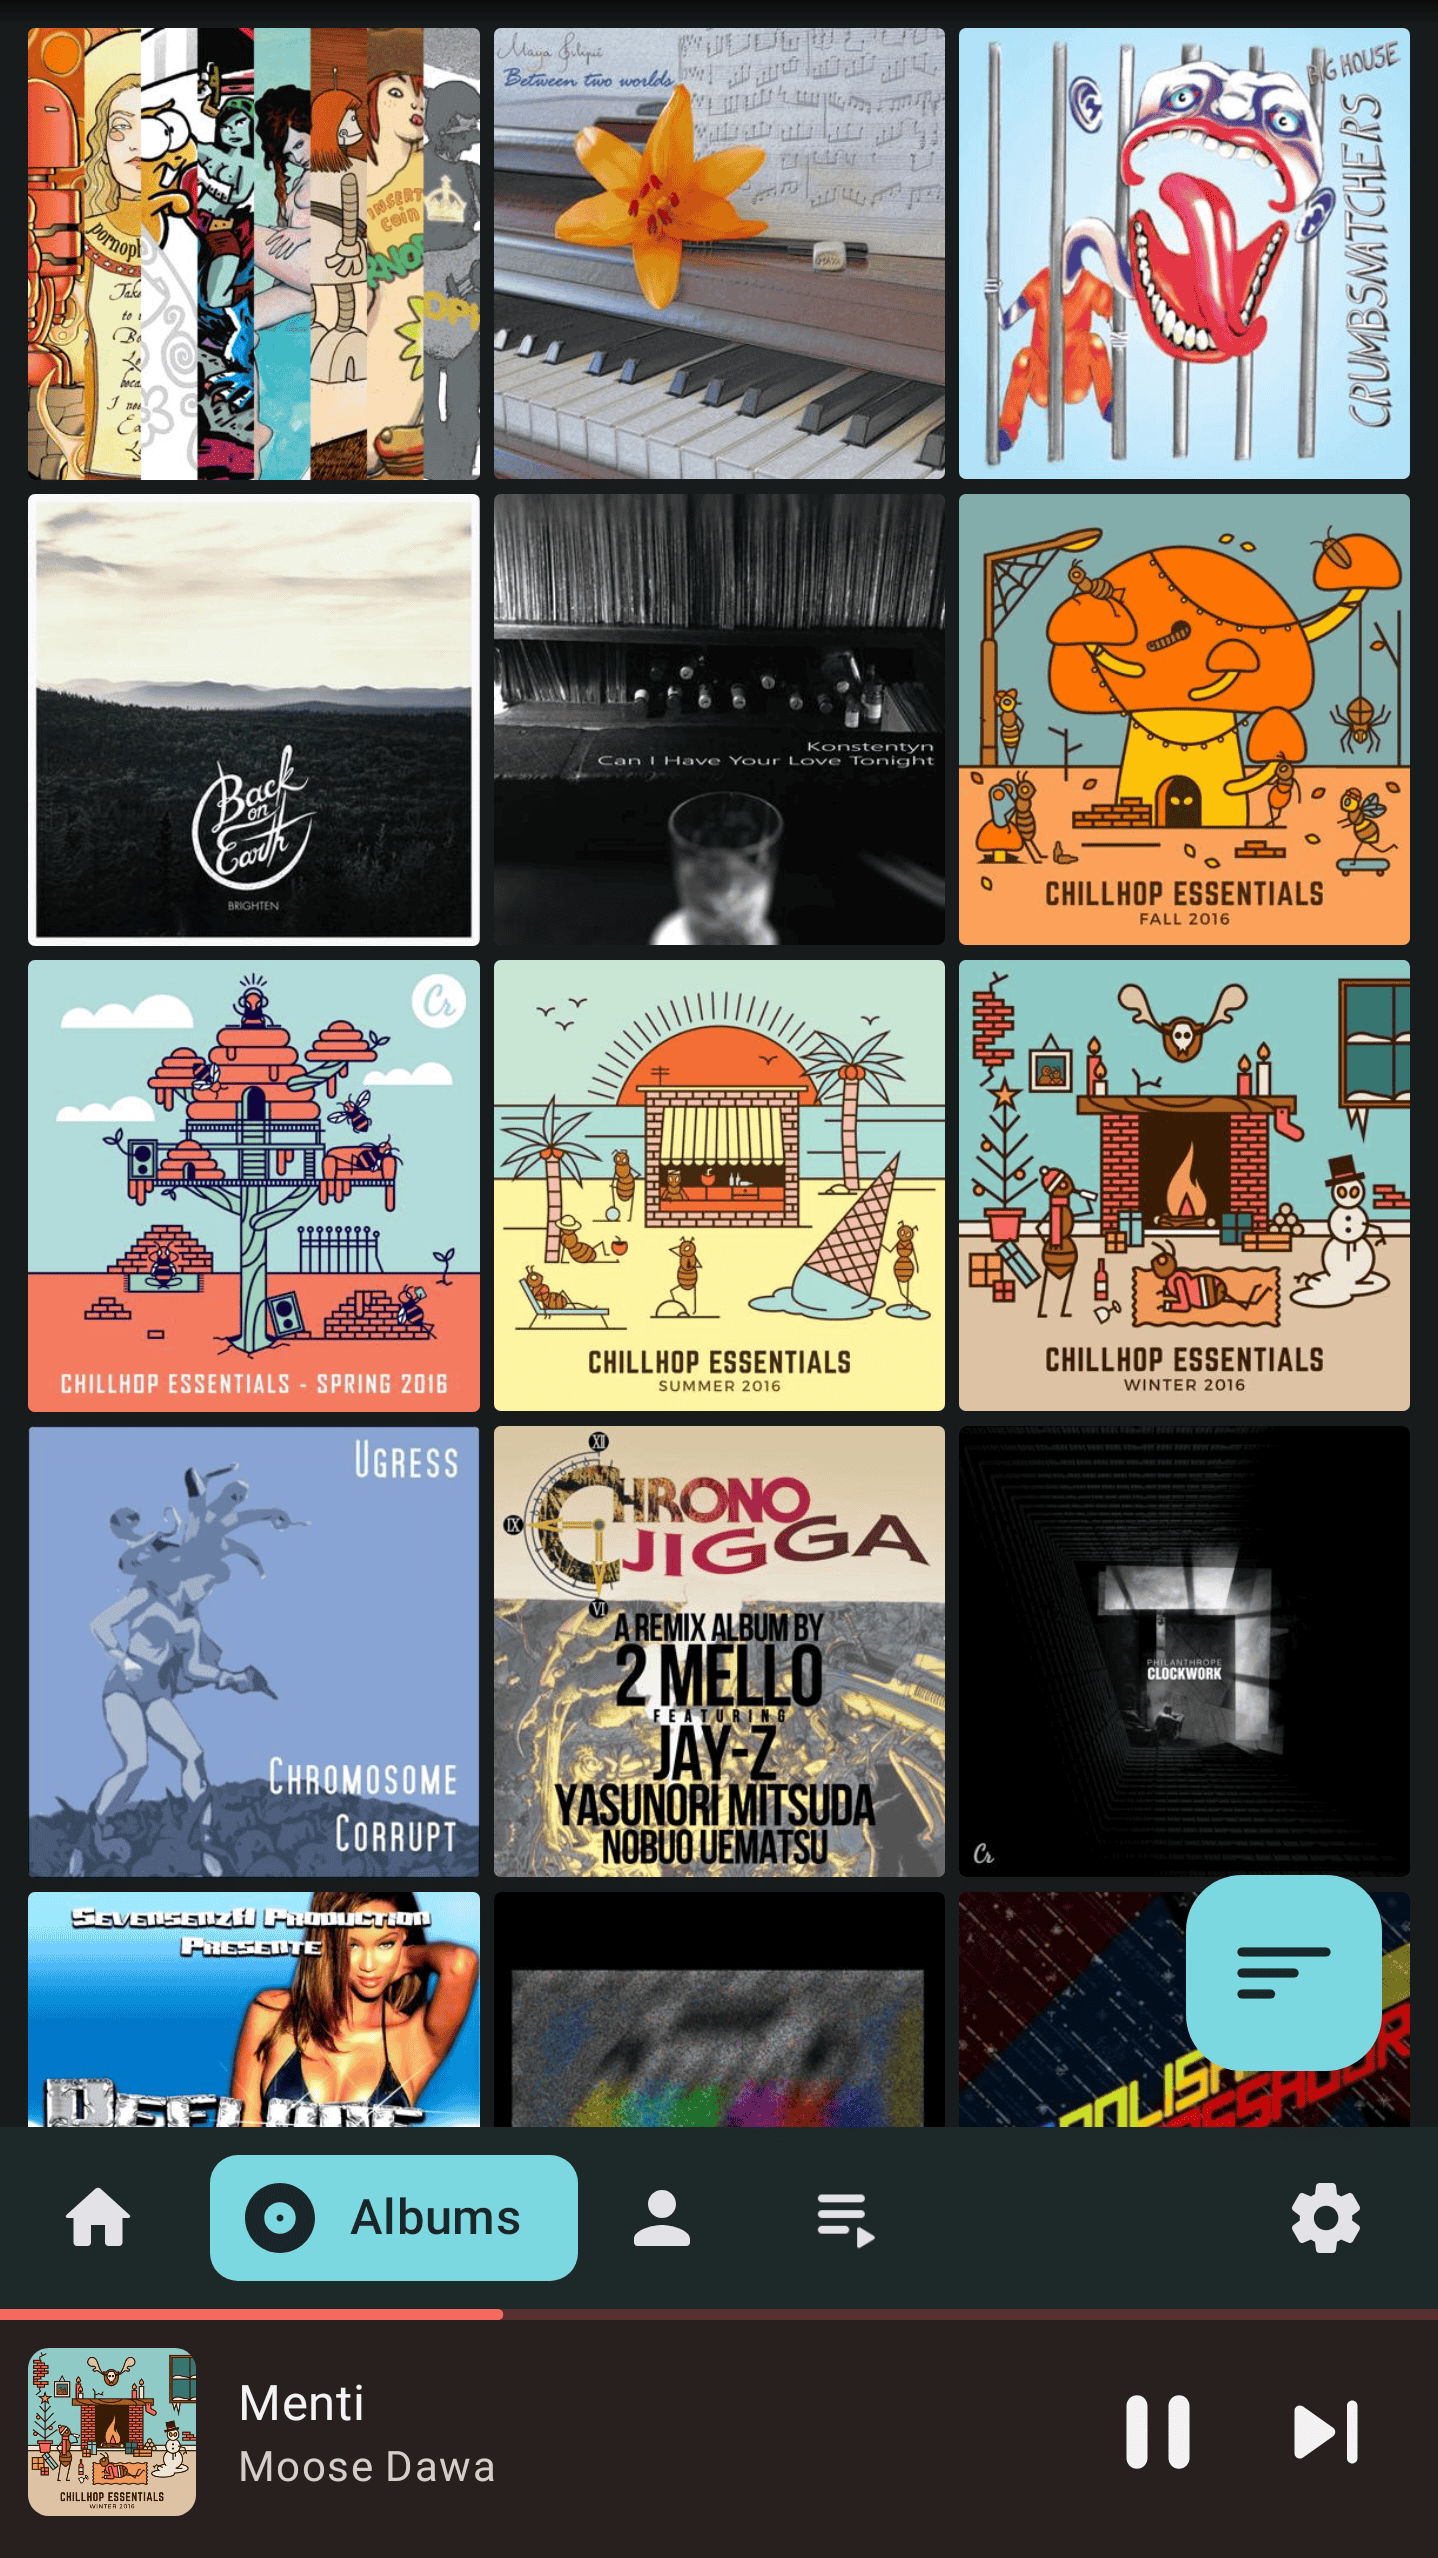
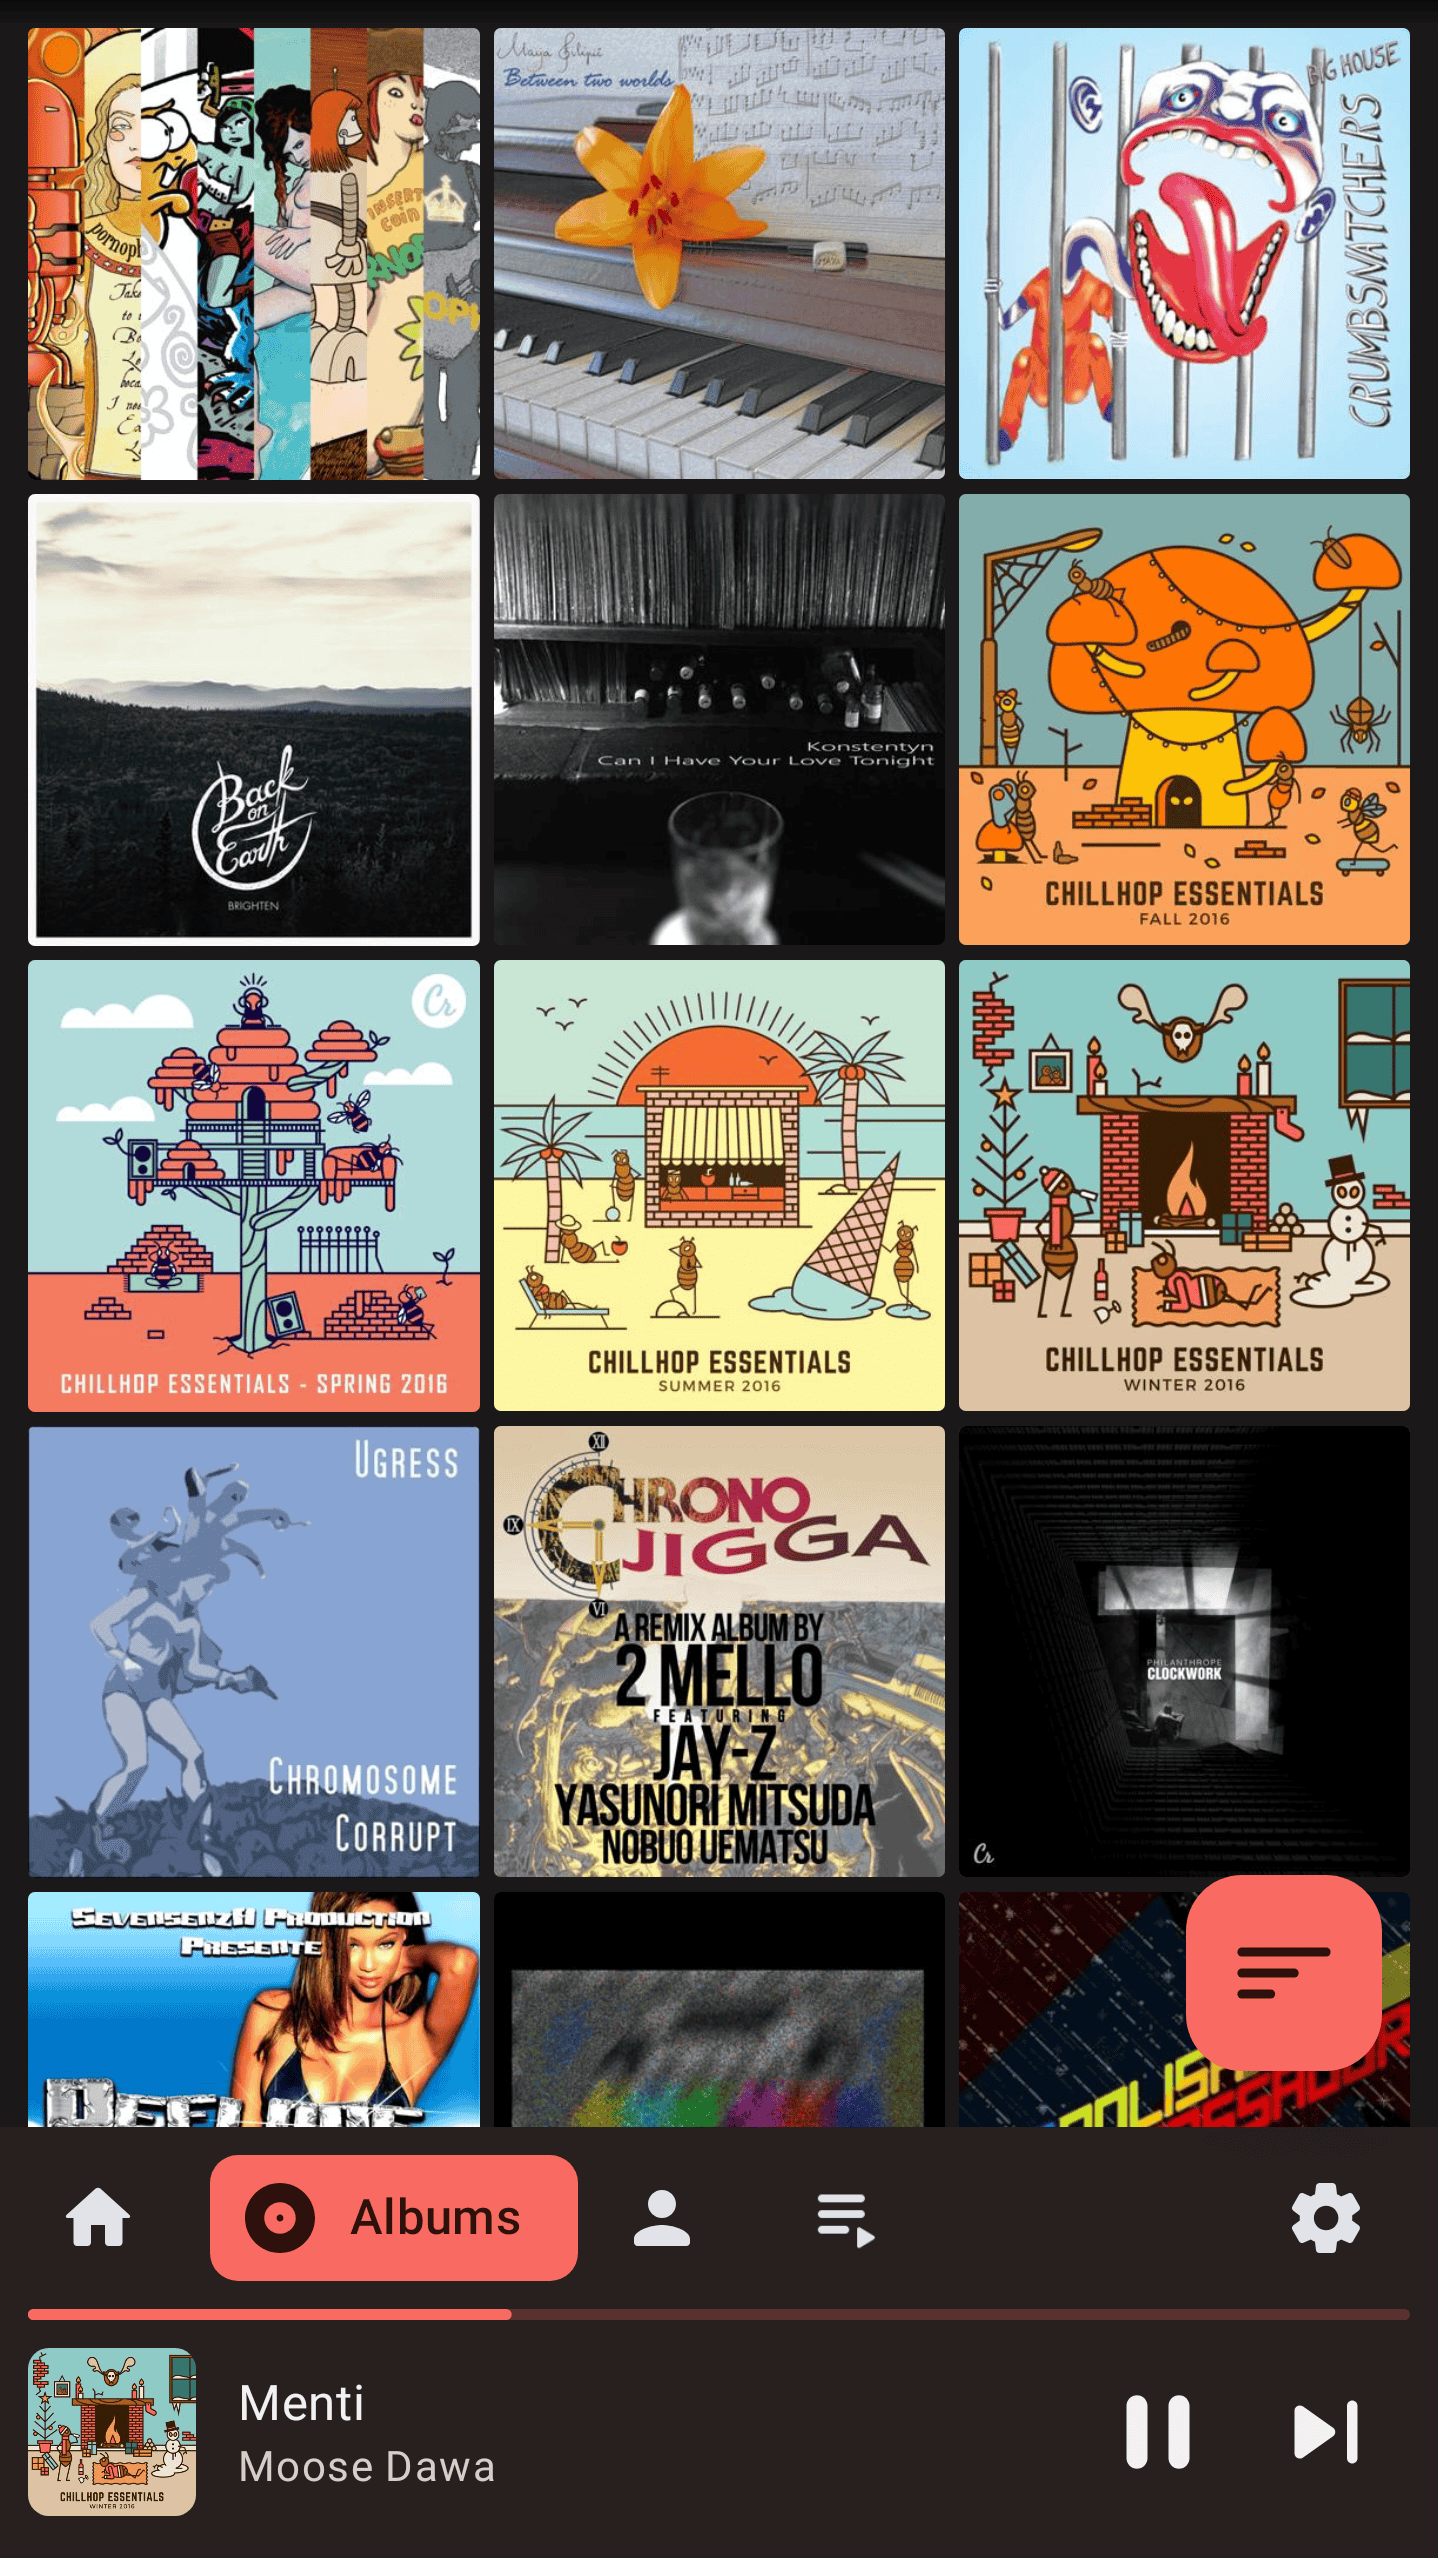
metadata: tint library screens from the playing track
The library accent follows the playback artwork (LibraryRoute derives it from
the current item), so pass the playing album instead of the first list entry,
which made the tab bar disagree with the miniplayer. Inset the miniplayer
progress bar when the tab bar is present, matching AppRoot.

diff --git a/app/src/test/kotlin/com/subtracks/ui/DemoScreenshotTest.kt b/app/src/test/kotlin/com/subtracks/ui/DemoScreenshotTest.kt
@@ -144,10 +144,10 @@ class DemoScreenshotTest {
                                 AlbumsScreen(
                                     demo.albums,
                                     demo.coverArt,
-                                    demo.artwork(demo.albums.first().coverArt),
+                                    demo.artwork(demo.nowPlayingAlbum.coverArt),
                                     modifier = Modifier.weight(1f),
                                 )
-                                demo.MiniPlayerOverlay(demo.nowPlayingSong, demo.nowPlayingAlbum)
+                                demo.MiniPlayerOverlay(demo.nowPlayingSong, demo.nowPlayingAlbum, progressInset = true)
                             }
                         }
 
@@ -195,10 +195,10 @@ class DemoScreenshotTest {
                                     onPlaylistClick = {},
                                     onSync = {},
                                     onOpenSettings = {},
-                                    artwork = demo.artwork(demo.artists.first().coverArt),
+                                    artwork = demo.artwork(demo.nowPlayingAlbum.coverArt),
                                     modifier = Modifier.weight(1f),
                                 )
-                                demo.MiniPlayerOverlay(demo.nowPlayingSong, demo.nowPlayingAlbum)
+                                demo.MiniPlayerOverlay(demo.nowPlayingSong, demo.nowPlayingAlbum, progressInset = true)
                             }
                         }
 
@@ -221,7 +221,7 @@ class DemoScreenshotTest {
                                     starredSupported = true,
                                     search = DEMO_SEARCH,
                                     onSearchChange = {},
-                                    artwork = demo.artwork(demo.searchAlbums.first().coverArt),
+                                    artwork = demo.artwork(demo.nowPlayingAlbum.coverArt),
                                     modifier = Modifier.weight(1f),
                                 )
                                 demo.MiniPlayerOverlay(demo.nowPlayingSong, demo.nowPlayingAlbum)
@@ -284,6 +284,7 @@ class DemoScreenshotTest {
     private fun DemoData.MiniPlayerOverlay(
         song: Song,
         album: Album,
+        progressInset: Boolean = false,
         modifier: Modifier = Modifier,
     ) {
         MiniPlayer(
@@ -291,6 +292,7 @@ class DemoScreenshotTest {
             positionMs = positionFor(song),
             coverArt = coverArt(album.coverArt, true),
             artwork = artwork(album.coverArt),
+            progressInset = progressInset,
             onExpand = {},
             onPlayPause = {},
             onNext = {},
